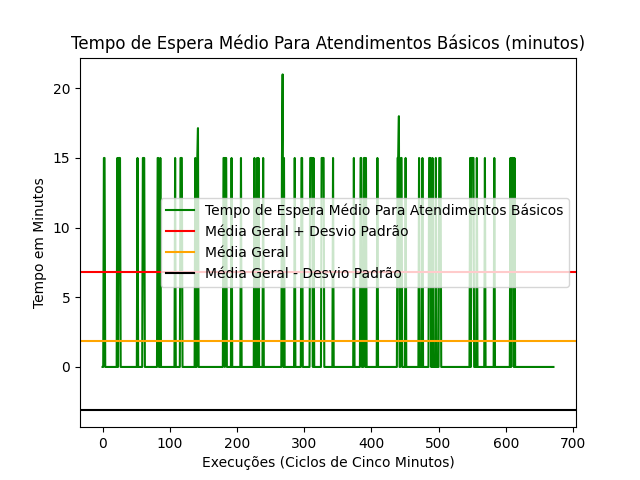
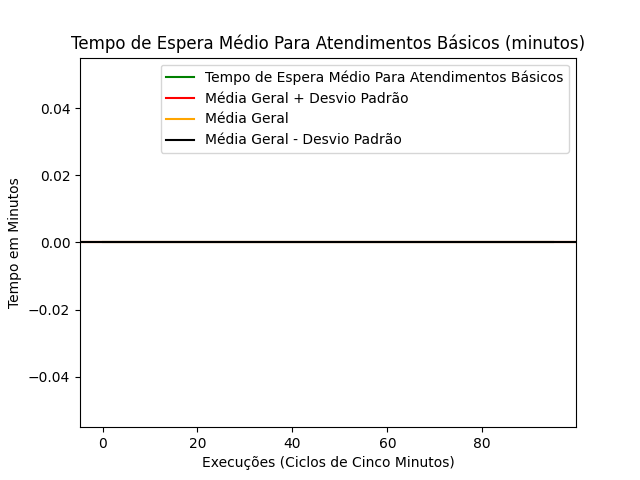
Adição dos atendimentos por histograma

diff --git a/day-time-execution/designacao.py b/day-time-execution/designacao.py
@@ -8,11 +8,12 @@ import random
 from environment import Environment
 import math
 from statistics import stdev, mean
+from AtendimentosGenerator import NumeroDeAtendimentosPorIntervaloDeTempo
 
 import matplotlib.pyplot as plt
 
 TEMPO_ATUAL = 0
-QUANTIDADE_DE_DIAS = 7
+QUANTIDADE_DE_DIAS = 1
 CICLOS_DA_SIMULACAO = 96 * QUANTIDADE_DE_DIAS # (quantidade de ciclos de 15 minutos em x dias)
 TEMPO_ENTRE_SIMULACOES = 15
 
@@ -80,10 +81,16 @@ ambulanciasBasicas: List[Dict[str, int]] = Ambulancias.generate(Environment.BASI
 
 simulacao = 0
 
-for _ in tqdm(range(0, CICLOS_DA_SIMULACAO)):
+atendimentos_avancados_por_ciclo_de_tempo = NumeroDeAtendimentosPorIntervaloDeTempo.generate(50)
+atendimentos_basicos_por_ciclo_de_tempo = NumeroDeAtendimentosPorIntervaloDeTempo.generate(300)
+
+for ciclo_de_simulacao in tqdm(range(0, CICLOS_DA_SIMULACAO)):
     TEMPO_ATUAL = simulacao * TEMPO_ENTRE_SIMULACOES
-    atendimentosAvancados: List[Dict[str, int]] = Atendimentos.generate(atendimentosAvancadosNaoContemplados, todosOsAtendimentosAvancadosNaoRealizadosByUID, max = 8)
-    atendimentosBasicos: List[Dict[str, int]] = Atendimentos.generate(atendimentosBasicosNaoContemplados, todosOsAtendimentosBasicosNaoRealizadosByUID, max = 15)
+    
+    quantidade_de_novos_atendimentos_basicos = atendimentos_basicos_por_ciclo_de_tempo[ciclo_de_simulacao]
+    quantidade_de_novos_atendimentos_avancados = atendimentos_avancados_por_ciclo_de_tempo[ciclo_de_simulacao]
+    atendimentosAvancados: List[Dict[str, int]] = Atendimentos.generate(atendimentosAvancadosNaoContemplados, todosOsAtendimentosAvancadosNaoRealizadosByUID, quantidade_de_novos_atendimentos_avancados)
+    atendimentosBasicos: List[Dict[str, int]] = Atendimentos.generate(atendimentosBasicosNaoContemplados, todosOsAtendimentosBasicosNaoRealizadosByUID, quantidade_de_novos_atendimentos_basicos)
     
     ambulanciasAvancadasNaoImpedidas = filtrar_ambulancias_nao_impedidas(ambulanciasAvancadas)
     ambulanciasBasicasNaoImpedidas = filtrar_ambulancias_nao_impedidas(ambulanciasBasicas)

diff --git a/day-time-execution/AtendimentosGenerator.py b/day-time-execution/AtendimentosGenerator.py
@@ -30,22 +30,3 @@ class NumeroDeAtendimentosPorIntervaloDeTempo:
         contagem_ocorrencias, _ = np.histogram(ocorrencias_por_intervalo, bins=np.arange(97))
         
         return contagem_ocorrencias
-
-
-contagem_ocorrencias = NumeroDeAtendimentosPorIntervaloDeTempo.generate(300)
-
-# Exibindo o histograma
-plt.figure(figsize=(15, 5))
-plt.bar(np.arange(96), contagem_ocorrencias, width=0.8, align='center')
-plt.xlabel('Intervalo de 15 minutos ao longo do dia')
-plt.ylabel('Número de ocorrências')
-plt.title('Distribuição de Ocorrências ao Longo do Dia')
-plt.xticks(np.arange(0, 96, 4))
-plt.grid(True)
-plt.show()
-
-# Imprimindo a contagem de ocorrências por intervalo de 15 minutos
-for i in range(96):
-    hora = i // 4
-    minuto = (i % 4) * 15
-    print(f"{hora:02d}:{minuto:02d} - {contagem_ocorrencias[i]} ocorrências")

diff --git a/day-time-execution/atendimentos.py b/day-time-execution/atendimentos.py
@@ -6,7 +6,7 @@ import uuid
 class Atendimentos:
     
     @staticmethod
-    def generate(atendimentosNaoRealizados: List[Dict[str, int]] = [], todosOsAtendimentosNaoRealizadosByUID: Dict[str, float] = {}, max: int = 3) -> List[Dict[str, int]]:
+    def generate(atendimentosNaoRealizados: List[Dict[str, int]] = [], todosOsAtendimentosNaoRealizadosByUID: Dict[str, float] = {}, quantidade: int = 1) -> List[Dict[str, int]]:
         atendimentos = []
         pesos = [1,1,2,3,5,8,13,21,34,55]
         
@@ -14,7 +14,6 @@ class Atendimentos:
             atendimento["peso"] += todosOsAtendimentosNaoRealizadosByUID[atendimento["id"]]
             atendimentos.append(atendimento)
         
-        quantidade = random.randint(1, max)
         for _ in range(quantidade):
             atendimentos.append({
                 "id": str(uuid.uuid4()),
